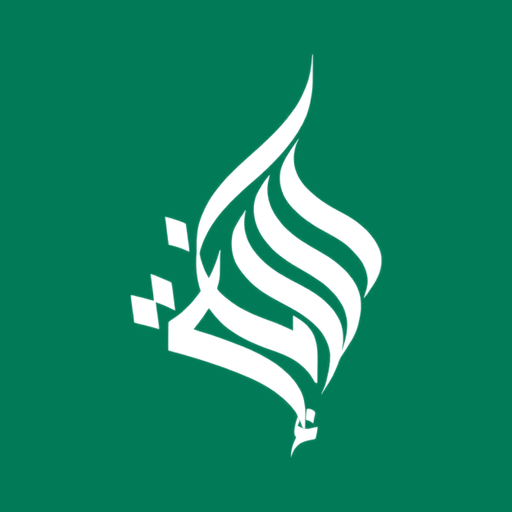
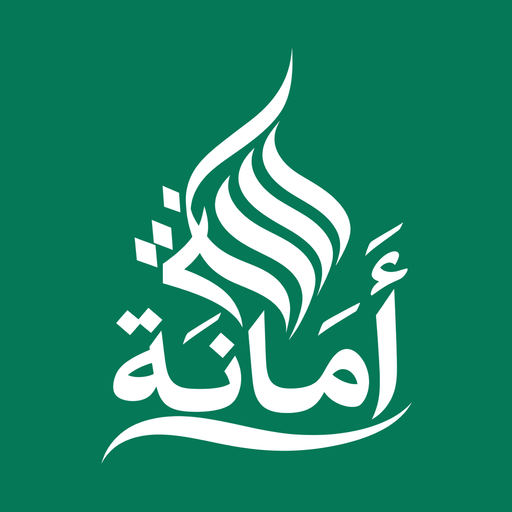
chore(pwa): update branding assets and cache version
Update application icons and increment the service worker cache version to v13 to reflect the new branding.

Changed region(s): [[0.2188, 0.0938, 0.8125, 0.9062], [0.1875, 0.875, 0.2188, 0.9062]]

diff --git a/src/components/SignUpForm.tsx b/src/components/SignUpForm.tsx
@@ -24,6 +24,7 @@ import { api } from '../utils/api.ts';
 import { isMobileViewport, setMobileBrowseMode } from '../utils/mobileSession.ts';
 import { isPdfFileUrl } from '../utils/format.ts';
 import { ActionModal } from './ActionModal.tsx';
+import { AmanahLogo } from './AmanahLogo.tsx';
 import { useCoopSession } from './AppProviders.tsx';
 
 interface NomineeDraft {
@@ -458,14 +459,17 @@ export function SignUpForm() {
         className="max-w-4xl w-full mx-auto bg-white/80 dark:bg-slate-900/75 backdrop-blur-md border border-slate-200/80 dark:border-slate-800/80 rounded-2xl p-6 sm:p-10 shadow-sm space-y-8"
       >
         <div className="flex flex-col sm:flex-row sm:items-end justify-between gap-4 border-b border-slate-200/80 dark:border-slate-800/80 pb-6">
-          <div className="space-y-1.5">
-            <div className="inline-flex items-center gap-2 text-xs font-medium text-emerald-700 dark:text-emerald-400">
-              <ShieldCheck className="w-4 h-4 shrink-0" aria-hidden="true" />
-              <span>Admin-Verified Cooperative Onboarding · AES-256-GCM KYC</span>
+          <div className="flex items-start sm:items-center gap-3.5">
+            <AmanahLogo size="md" decorative className="shadow-sm mt-0.5 sm:mt-0" />
+            <div className="space-y-1">
+              <div className="inline-flex items-center gap-1.5 text-xs font-medium text-emerald-700 dark:text-emerald-400">
+                <ShieldCheck className="w-4 h-4 shrink-0" aria-hidden="true" />
+                <span>Admin-Verified Cooperative Onboarding · AES-256-GCM KYC</span>
+              </div>
+              <h1 className="text-2xl sm:text-3xl font-bold tracking-tight text-slate-900 dark:text-white">
+                Membership Application
+              </h1>
             </div>
-            <h1 className="text-2xl sm:text-3xl font-bold tracking-tight text-slate-900 dark:text-white">
-              Membership Application
-            </h1>
           </div>
           <Link
             href="/login"

diff --git a/src/components/Hero.tsx b/src/components/Hero.tsx
@@ -2,7 +2,8 @@
 
 import { useState } from 'react';
 import Link from 'next/link';
-import { ArrowRight, HandCoins, LayoutDashboard, Shield } from 'lucide-react';
+import { ArrowRight, HandCoins, LayoutDashboard } from 'lucide-react';
+import { AmanahLogo } from './AmanahLogo.tsx';
 import { useCoopSession } from './AppProviders.tsx';
 import { MotionCard, type CardHue } from './MotionCard.tsx';
 
@@ -165,8 +166,8 @@ export function Hero({
           <div className="lg:col-span-5 flex">
             <div className="relative w-full aspect-[16/10] lg:aspect-auto lg:h-full min-h-[240px] rounded-xl overflow-hidden border border-slate-200/80 dark:border-slate-800/80 bg-slate-100 dark:bg-slate-950">
               {heroImgFailed ? (
-                <div className="w-full h-full p-8 bg-gradient-to-br from-emerald-950/15 via-slate-100 to-teal-950/10 dark:from-emerald-950/40 dark:via-slate-900 dark:to-slate-950 flex flex-col items-center justify-center text-center gap-2.5">
-                  <Shield className="w-10 h-10 text-emerald-700 dark:text-emerald-400" aria-hidden="true" />
+                <div className="w-full h-full p-8 bg-gradient-to-br from-emerald-950/15 via-slate-100 to-teal-950/10 dark:from-emerald-950/40 dark:via-slate-900 dark:to-slate-950 flex flex-col items-center justify-center text-center gap-3">
+                  <AmanahLogo size="lg" decorative className="shadow-md" />
                   <div className="text-sm font-semibold text-slate-900 dark:text-white">
                     Amanah Cooperative Sanctuary
                   </div>

diff --git a/src/components/MobileMfsHome.tsx b/src/components/MobileMfsHome.tsx
@@ -47,6 +47,7 @@ import { api } from '../utils/api.ts';
 import { formatBillingMonth, formatMoney, formatShortDate } from '../utils/format.ts';
 import { useBodyScrollLock } from '../utils/modalLock.ts';
 import { ActionModal } from './ActionModal.tsx';
+import { AmanahLogo } from './AmanahLogo.tsx';
 import { ContributionLeaderboard } from './ContributionLeaderboard.tsx';
 import type { ManagerDeskTab } from './ManagerDeskView.tsx';
 import { RepaymentSchedule } from './RepaymentSchedule.tsx';
@@ -845,10 +846,17 @@ export function MobileMfsHome({
         </div>
 
         <div className="flex items-center justify-between gap-3">
-          <div className="min-w-0">
-            <div className="text-sm font-semibold text-white truncate">{config.fundName}</div>
-            <div className="text-[11px] text-emerald-100/85 truncate mt-0.5 capitalize">
-              {user.name} · <span className="font-mono">{user.memberCode}</span> · {user.role}
+          <div className="flex items-center gap-2.5 min-w-0">
+            <AmanahLogo
+              size="sm"
+              decorative
+              className="ring-1 ring-white/25 shadow-sm"
+            />
+            <div className="min-w-0">
+              <div className="text-sm font-semibold text-white truncate">{config.fundName}</div>
+              <div className="text-[11px] text-emerald-100/85 truncate mt-0.5 capitalize">
+                {user.name} · <span className="font-mono">{user.memberCode}</span> · {user.role}
+              </div>
             </div>
           </div>
 

diff --git a/src/components/SignInForm.tsx b/src/components/SignInForm.tsx
@@ -14,6 +14,7 @@ import {
 } from '../utils/mobileDeviceAuth.ts';
 import { isMobileViewport, setMobileBrowseMode } from '../utils/mobileSession.ts';
 import { ActionModal } from './ActionModal.tsx';
+import { AmanahLogo } from './AmanahLogo.tsx';
 import { useCoopSession } from './AppProviders.tsx';
 import { MobilePinLoginPanel } from './MobilePinLoginPanel.tsx';
 
@@ -167,10 +168,13 @@ export function SignInForm() {
       >
         {/* Left Institutional Context Column */}
         <div className="lg:col-span-6 space-y-6">
-          <div className="space-y-2.5">
-            <div className="inline-flex items-center gap-2 text-xs font-semibold text-emerald-700 dark:text-emerald-400">
-              <ShieldCheck className="w-4 h-4" aria-hidden="true" />
-              <span>Encrypted Dashboard · HttpOnly JWT</span>
+          <div className="space-y-3">
+            <div className="flex items-center gap-3">
+              <AmanahLogo size="md" decorative className="shadow-sm" />
+              <div className="inline-flex items-center gap-1.5 text-xs font-semibold text-emerald-700 dark:text-emerald-400">
+                <ShieldCheck className="w-4 h-4 shrink-0" aria-hidden="true" />
+                <span>Encrypted Dashboard · HttpOnly JWT</span>
+              </div>
             </div>
             <h1 className="text-2xl sm:text-3xl font-bold tracking-tight text-slate-900 dark:text-white text-balance">
               Sign in to the Amanah Dashboard

diff --git a/public/sw.js b/public/sw.js
@@ -1,4 +1,4 @@
-const CACHE_NAME = 'amanah-pwa-v12';
+const CACHE_NAME = 'amanah-pwa-v13';
 const APP_SHELL_URLS = [
   '/manifest.webmanifest',
   '/brand-logo.png',
@@ -112,10 +112,10 @@ self.addEventListener('fetch', (event) => {
     body{margin:0;min-height:100dvh;display:flex;align-items:center;justify-content:center;padding:24px;background:#f8fafc;color:#0f172a;font-family:system-ui,-apple-system,sans-serif;text-align:center}
     @media (prefers-color-scheme:dark){body{background:#020617;color:#f1f5f9}.card{background:#0f172a;border-color:#1e293b}.sub{color:#94a3b8}}
     .card{max-width:360px;width:100%;padding:28px 24px;border-radius:20px;background:#fff;border:1px solid #e2e8f0;box-shadow:0 12px 32px rgba(2,6,23,.08)}
-    .logo{width:88px;height:88px;border-radius:20px;display:block;margin:0 auto 16px;background:#007a57;box-shadow:0 8px 20px rgba(0,122,87,.25)}
+    .logo{width:88px;height:88px;border-radius:20px;display:block;margin:0 auto 16px;background:#047857;box-shadow:0 8px 20px rgba(4,120,87,.25)}
     h1{margin:0 0 6px;font-size:18px;font-weight:700}
     .sub{margin:0 0 20px;font-size:13px;line-height:1.5;color:#475569}
-    button{background:#007a57;color:#fff;border:0;border-radius:10px;padding:10px 18px;font-size:13px;font-weight:600;cursor:pointer}
+    button{background:#047857;color:#fff;border:0;border-radius:10px;padding:10px 18px;font-size:13px;font-weight:600;cursor:pointer}
   </style>
 </head>
 <body>

diff --git a/src/components/MobilePinLoginPanel.tsx b/src/components/MobilePinLoginPanel.tsx
@@ -25,6 +25,7 @@ import {
   syncLocalAccountsWithServerUser,
   type LocalRegisteredAccount,
 } from '../utils/mobileDeviceAuth.ts';
+import { AmanahLogo } from './AmanahLogo.tsx';
 
 interface MobilePinLoginPanelProps {
   onSuccess: (user: PublicUser) => void;
@@ -146,7 +147,8 @@ export function MobilePinLoginPanel({
       {/* Selected Registered Account Card */}
       <div className="space-y-2">
         <div className="flex items-center justify-between gap-2">
-          <span className="inline-flex items-center gap-1.5 text-xs font-semibold uppercase tracking-wider text-emerald-700 dark:text-emerald-400">
+          <span className="inline-flex items-center gap-2 text-xs font-semibold uppercase tracking-wider text-emerald-700 dark:text-emerald-400">
+            <AmanahLogo size="xs" decorative className="w-5 h-5 rounded-md" />
             <Smartphone className="w-3.5 h-3.5" aria-hidden="true" />
             <span>Registered Device · 4-Digit PIN</span>
           </span>

diff --git a/src/components/AmanahLogo.tsx b/src/components/AmanahLogo.tsx
@@ -22,7 +22,7 @@ export function AmanahLogo({
   const src = variant === 'lockup' ? '/brand-lockup.png' : '/brand-logo.png';
   return (
     <span
-      className={`inline-flex items-center justify-center overflow-hidden bg-[#007a57] ring-1 ring-emerald-500/30 shadow-xs shrink-0 select-none ${SIZE_CLASSES[size]} ${className}`}
+      className={`inline-flex items-center justify-center overflow-hidden bg-[#047857] ring-1 ring-emerald-400/35 shadow-xs shrink-0 select-none ${SIZE_CLASSES[size]} ${className}`}
     >
       <img
         src={src}

diff --git a/src/app/loading.tsx b/src/app/loading.tsx
@@ -21,7 +21,10 @@ export default function AppLoading() {
           />
         </div>
 
-        <p className="text-xs sm:text-sm font-medium text-slate-700 dark:text-slate-300">
+        <h1 className="text-lg font-bold tracking-tight text-slate-900 dark:text-white">
+          Amanah
+        </h1>
+        <p className="mt-1 text-xs sm:text-sm font-medium text-slate-700 dark:text-slate-300">
           Qard Hasan &amp; Halal Cooperative Treasury
         </p>
 

diff --git a/src/app/manifest.ts b/src/app/manifest.ts
@@ -11,8 +11,8 @@ export default function manifest(): MetadataRoute.Manifest {
     scope: '/',
     display: 'standalone',
     orientation: 'portrait',
-    background_color: '#007a57',
-    theme_color: '#007a57',
+    background_color: '#047857',
+    theme_color: '#047857',
     icons: [
       {
         src: '/pwa-192x192.png',
